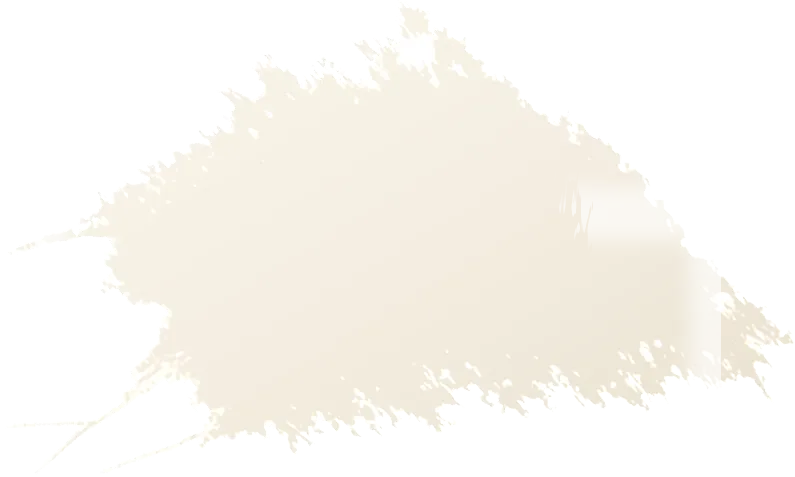
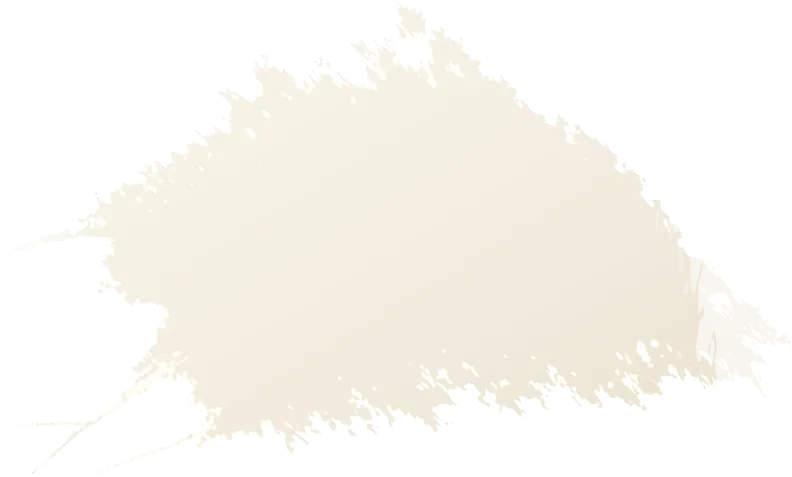
x=640'taki hayalet ek yeri kapandı, telefonda kenar bıçakla kesilmiyor
İki kusur aynı kökten: boya, üretildiği tuvalin dışına taşıyor.

1) Maskeler tuval boyutundaydı, darbeler değil. boya_darbe içindeki
   `if 0 <= gx < TUVAL_EN` koşulu, tuval dışına düşen her pikselde nefes
   ve koruma maskesi sorgusunu sessizce atlıyordu. Sonuç: x<640'ta
   delikler açık (duvar sızıyor, dokulu), x>640'ta hiç delik yok (tam
   opak, dokusuz), arada bıçak gibi bir çizgi. Sayı tesadüfi değildi:
   TUVAL_EN(686) - PAY_SOL(46) = 640. Koyu panelde iki taraf da koyu
   olduğu için fark küçüktü; panel kremlenince uçurum oldu.

   Maskeler artık darbelerin GERÇEK sınırlarını kapsıyor (874x1142,
   tuval 686x957). Sınırlar elle yazılmıyor: bütün darbeler önce
   üretiliyor, sınırları ölçülüyor, maskeler ona göre kuruluyor.
   Ölçüldü: x=639'daki atlama 90.84'ten 15.17'ye düştü, yani cetvel
   kenarı gitti, kalan boyanın kendi değişimi. İç delik %0.03 -> %0.01.

   Kelepçeleme (gx = min(gx, TUVAL_EN-1)) denenmedi çünkü yanlış:
   kenarda tekrar eden bir şerit bırakır, artefaktı artefakta çevirir.

2) Telefonda kırpma dar tutulmuştu, çünkü orada kâğıt hiç çekilmiyor ve
   taşan boyanın altında duvar değil doğrudan içerik var. Bedeli ağırdı:
   gerçek cihazda kartın sağ ve alt kenarı cetvel gibi düz çıkıyordu ve
   o düz kenar çerçeve gibi okunuyordu -- "darbeler panelin kendisi,
   tırtıklı kenar kalıcı" kararının tam tersi. Ölçüldü: sağda x=362'de
   111 basamaklık dikey kesik, altta y=750'de 50 basamaklık yatay kesik.
[…]

Changed region(s): [[0.8788, 0.6164, 0.9697, 0.7925], [0.9697, 0.7044, 1.0, 0.7338]]

diff --git a/kabuk.css b/kabuk.css
@@ -432,7 +432,15 @@ html.durdur { scrollbar-gutter: stable; }
     inset: auto;
     top: var(--ust);
     left: clamp(14px, 4vw, 22px);
-    width: min(306px, calc(100vw - 2 * clamp(14px, 4vw, 22px)));
+    /* Genislik OLCULEN tasmaya bagli. Telefonda kagit hic cekilmiyor,
+       yani boyanin tasmasi dogrudan ekrana gidiyor; kart + tasma
+       ekrana sigmali ki tirtikli kenar KESILMESIN:
+           kart * (1 + tasma) <= ekran - iki yan pay
+       306 px'te tasma 396'ya gidiyordu (ekran 390) ve kenar bicakla
+       kesiliyordu. Formul 390'da 262, 320'de 226 veriyor -- her iki
+       ekranda da tirtikli kenar iceride bitiyor. */
+    width: min(262px, calc((100vw - 2 * clamp(14px, 4vw, 22px))
+                           / (1 + var(--tasma-oran, .3))));
     height: auto;
     max-height: calc(100dvh - var(--ust) - 20px);
     grid-template-columns: 1fr; grid-template-rows: 1fr;
@@ -684,13 +692,19 @@ html:not(.menuacik) #shell {
 @media (max-width: 760px) {
   html.menuacik #shell { --don: 0deg; --kac: 0px; --kucul: 1; }
   #menu { height: auto; }
-  /* Kirpma telefonda DAR kalir. Masaustunde gevsetildi cunku olculen
-     tasma %29 ve kagit o kadar kenara cekiliyor; telefonda kagit hic
-     cekilmiyor (yukaridaki --kac: 0), yani tasan boyanin altinda duvar
-     degil dogrudan icerik var. Olculdu: gevsek kirpmayla kart 390 px'te
-     x=420'ye kadar tasiyor ve icerigi cirkin sekilde kapatiyordu.
-     Burada boya kartin kendisi olarak kaliyor. */
-  #boya { clip-path: inset(-30px -22px -34px -20px); }
+  /* Kirpma KALKTI. Once dar tutulmustu (tasan boyanin altinda duvar
+     degil dogrudan icerik var diye) ama bedeli agirdi: gercek cihazda
+     kartin sag ve alt kenari cetvel gibi duz cikiyordu ve o duz kenar
+     cerceve gibi okunuyordu -- yani "darbeler panelin kendisi, tirtikli
+     kenar kalici" kararinin tam tersi. Olculdu: sagda x=362'de 111
+     basamaklik dikey kesik, altta y=750'de 50 basamaklik yatay kesik.
+     Cozum kirpmak degil, tasmaya YER ACMAK: kart 306'dan 262 px'e
+     indi, tasma artik ekranin icinde bitiyor. Perde de koyulasti ki
+     tasan boyanin altindaki icerik kirli durmasin. */
+  #boya { clip-path: none; }
+  #menu:popover-open::backdrop, #menu.open ~ #perde {
+    background: rgba(22,18,13,.52);
+  }
 }
 
 /* Buradaki ikinci satir blogu kaldirildi. .open yolu icin yazilmisti ama

diff --git a/firca.css b/firca.css
@@ -1,9 +1,9 @@
 /* URETILDI - python firca.py. Elle duzenleme: yerlesim olculerek
    bulunuyor, elle degistirilirse yazi altindaki opaklik garantisi
    bozulur. Kaynak: firca.py YERLESIM. */
-#boya {
+:root {
   --darbe: 9;        /* kabuk.js kac <i> uretecegini buradan okuyor */
-  --tasma-oran: 0.2933; /* olculdu: gorunur boya kutunun %29.3'i kadar tasiyor */
+  --tasma-oran: 0.2917; /* olculdu: gorunur boya kutunun %29.2'i kadar tasiyor */
 }
 :root { --satir-doygunluk: 0.40; --satir-parlaklik: 0.20; --satir-adim: 0.015; }
 :root {
@@ -29,7 +29,7 @@
 }
 #boya i { animation-duration: 300ms; animation-timing-function: cubic-bezier(.38,.12,.56,.94); }
 #boya i:nth-child(1) {
-  left: -12.67%; top: -5.13%; width: 132.50%; height: 39.91%;
+  left: -12.50%; top: -5.13%; width: 132.33%; height: 39.91%;
   background-image: url(assets/firca/panel-1.webp);
 }
 #menu:popover-open #boya i:nth-child(1) {
@@ -59,7 +59,7 @@
   animation-name: sup-sag; animation-delay: 84ms;
 }
 #boya i:nth-child(4) {
-  left: -13.50%; top: 27.54%; width: 132.50%; height: 55.66%;
+  left: -13.00%; top: 27.54%; width: 132.00%; height: 55.66%;
   background-image: url(assets/firca/panel-4.webp);
 }
 #menu:popover-open #boya i:nth-child(4) {
@@ -69,7 +69,7 @@
   animation-name: sup-sag; animation-delay: 120ms;
 }
 #boya i:nth-child(5) {
-  left: -11.00%; top: 44.11%; width: 140.67%; height: 78.41%;
+  left: -10.50%; top: 44.11%; width: 140.17%; height: 78.41%;
   background-image: url(assets/firca/panel-5.webp);
 }
 #menu:popover-open #boya i:nth-child(5) {
@@ -79,7 +79,7 @@
   animation-name: sup-sol; animation-delay: 152ms;
 }
 #boya i:nth-child(6) {
-  left: -12.00%; top: 70.36%; width: 138.17%; height: 24.74%;
+  left: -12.00%; top: 70.36%; width: 138.17%; height: 24.62%;
   background-image: url(assets/firca/panel-6.webp);
 }
 #menu:popover-open #boya i:nth-child(6) {

diff --git a/firca.py b/firca.py
@@ -434,7 +434,7 @@ def fr(t):
     return FR[-1][1]
 
 
-def nefes_dokusu(darbeler):
+def nefes_dokusu(darbeler, en=None, boy=None):
     """Butun darbelerin PAYLASTIGI delik dokusu.
 
     Her darbeye ayri delik acmak ise yaramiyor: delikler hizalanmadigi
@@ -446,8 +446,13 @@ def nefes_dokusu(darbeler):
     Doku kuru firca fotografinin kendi yogunlugundan: deliklerin
     dagilimi da gercek bir darbeden geliyor.
     """
+    en = TUVAL_EN if en is None else en
+    boy = TUVAL_BOY if boy is None else boy
     ham = darbeler['karakter-1']
-    d = ham.resize((TUVAL_EN, TUVAL_BOY), Image.LANCZOS)
+    # Olculer disaridan geliyor: doku darbelerin TAMAMINI kapsamali,
+    # yoksa tuval sinirinda delikler aniden kesiliyor ve cetvel gibi
+    # bir kenar olusuyor (olculdu: x=639'da 90 basamak).
+    d = ham.resize((en, boy), Image.LANCZOS)
     # Cogu yer acik (delik yok), az yer koyu (delik). Egri bunu kuruyor:
     # 190 ustu tam opak, 120 altı tam delik.
     # Egri DARALTILDI: ilk denemede panel yuzey olmaktan cikip lekeye
@@ -458,17 +463,23 @@ def nefes_dokusu(darbeler):
                    (96 if v <= 84 else int(96 + (v - 84) * 159.0 / 66)))
 
 
-def guvenli_bolge():
+def guvenli_bolge(en=None, boy=None, kay_x=0, kay_y=0):
     """Yazinin UZAGINDAKI bolge. Burada boya nefes alabilir.
 
     Yazi kutulari olculmus koordinatlar oldugu icin bu maske tahmin
     degil: kutular GUVENLI_PAY kadar buyutulup cikariliyor.
     """
-    m = Image.new('L', (TUVAL_EN, TUVAL_BOY), 255)
+    # Kanvas darbelerin tamamini kapsayacak kadar buyuk olabilir; yazi
+    # kutulari o zaman kaydirilarak ciziliyor. Kutularin DISINDA kalan
+    # genis alan 255, yani "guvenli" -- dogru, cunku orada yazi yok.
+    en = TUVAL_EN if en is None else en
+    boy = TUVAL_BOY if boy is None else boy
+    m = Image.new('L', (en, boy), 255)
     d = ImageDraw.Draw(m)
     for ad, x, y, w, h in YAZI_KUTULARI:
-        d.rectangle([x - GUVENLI_PAY, y - GUVENLI_PAY,
-                     x + w + GUVENLI_PAY, y + h + GUVENLI_PAY], fill=0)
+        d.rectangle([x + kay_x - GUVENLI_PAY, y + kay_y - GUVENLI_PAY,
+                     x + kay_x + w + GUVENLI_PAY,
+                     y + kay_y + h + GUVENLI_PAY], fill=0)
     # Kenarlari yumusat: sert bir sinir "buraya kadar delik, buradan sonra
     # yok" diye okunur ve yine cetvel etkisi yapar.
     return m.filter(ImageFilter.GaussianBlur(9))
@@ -487,7 +498,8 @@ def donustur(ham, wy, donme, ayna):
     return ham, siluet
 
 
-def boya_darbe(ham, siluet, ox, oy, guvenli=None, nefes=None):
+def boya_darbe(ham, siluet, ox, oy, guvenli=None, nefes=None,
+               kay_x=0, kay_y=0):
     """Doku RENKTE, alfa siluet. Ince boya acilir ama solmaz -- doygunlugu
     korumazsak panel plastik ortu gibi duruyor (denendi)."""
     w, h = siluet.size
@@ -502,8 +514,14 @@ def boya_darbe(ham, siluet, ox, oy, guvenli=None, nefes=None):
             if not a:
                 continue
             if gp is not None:
-                gx, gy = ox + x, oy + y
-                if 0 <= gx < TUVAL_EN and 0 <= gy < TUVAL_BOY:
+                # Maske koordinati: maskeler darbelerin tamamini kapsayan
+                # GENISLETILMIS kanvasta, o yuzden ofset ekleniyor.
+                # Sinir denetimi duruyor ama artik hicbir darbe disarida
+                # kalmiyor -- eskiden kalanlar maskesiz, yani tam opak ve
+                # dokusuz cikiyordu ve tam tuval sinirinda (x=640) cetvel
+                # gibi bir kenar birakiyordu.
+                gx, gy = ox + x + kay_x, oy + y + kay_y
+                if 0 <= gx < guvenli.size[0] and 0 <= gy < guvenli.size[1]:
                     g = gp[gx, gy]
                     if g and np_ is not None:
                         # Yazidan uzakta ORTAK dokunun deligi aciliyor.
@@ -526,15 +544,32 @@ def boya_darbe(ham, siluet, ox, oy, guvenli=None, nefes=None):
 
 
 def kur(darbeler):
-    panel = Image.new('RGBA', (TUVAL_EN, TUVAL_BOY), (0, 0, 0, 0))
-    guvenli = guvenli_bolge()
-    nefes = nefes_dokusu(darbeler)
-    parcalar = []
+    # Once butun darbeler uretiliyor ve GERCEK sinirlari olculuyor.
+    # Maskeler sonra, o sinirlari kapsayacak sekilde kuruluyor: eskiden
+    # maskeler tuval boyutundaydi ve tuvalin disina tasan her piksel
+    # maskesiz kaliyordu (bkz. boya_darbe).
+    hazir = []
     for ad, xy, yy, wy, donme, ayna in YERLESIM:
         ham, siluet = donustur(darbeler[ad], wy, donme, ayna)
         ox = int(EN * xy / 100.0) + PAY_SOL
         oy = int(BOY * yy / 100.0) + PAY_UST
-        d = boya_darbe(ham, siluet, ox, oy, guvenli, nefes)
+        hazir.append((ham, siluet, ox, oy))
+
+    kay_x = max(0, -min(o for _, _, o, _ in hazir))
+    kay_y = max(0, -min(o for _, _, _, o in hazir))
+    tasan_sag = max(0, max(o + sl.size[0] for _, sl, o, _ in hazir) - TUVAL_EN)
+    tasan_alt = max(0, max(o + sl.size[1] for _, sl, _, o in hazir) - TUVAL_BOY)
+    m_en = TUVAL_EN + kay_x + tasan_sag
+    m_boy = TUVAL_BOY + kay_y + tasan_alt
+    print('maske kanvasi %dx%d  (tuval %dx%d, tasma sol %d sag %d ust %d alt %d)'
+          % (m_en, m_boy, TUVAL_EN, TUVAL_BOY, kay_x, tasan_sag, kay_y, tasan_alt))
+
+    panel = Image.new('RGBA', (TUVAL_EN, TUVAL_BOY), (0, 0, 0, 0))
+    guvenli = guvenli_bolge(m_en, m_boy, kay_x, kay_y)
+    nefes = nefes_dokusu(darbeler, m_en, m_boy)
+    parcalar = []
+    for ham, siluet, ox, oy in hazir:
+        d = boya_darbe(ham, siluet, ox, oy, guvenli, nefes, kay_x, kay_y)
         gec = Image.new('RGBA', (TUVAL_EN, TUVAL_BOY), (0, 0, 0, 0))
         gec.paste(d, (ox, oy))
         panel = Image.alpha_composite(panel, gec)
@@ -791,7 +826,10 @@ def css_yaz(satirlar, taban=None):
     # tasma kutu eninin ~%30'u, yani kirpma boyayi duz bir dikey cizgi
     # halinde kesiyordu.
     tasma = max(0.0, max(r['sag_gor'] for r in satirlar) - 100.0) / 100.0
-    p.append('#boya {')
+    # :root'a yaziliyor, #boya'ya degil: telefonda #menu'nun GENISLIGI de
+    # bu orana bagli (kart + tasma ekrana sigmali) ve #menu, #boya'nin
+    # atasi oldugu icin oradan miras alamazdi.
+    p.append(':root {')
     p.append('  --darbe: %d;        /* kabuk.js kac <i> uretecegini buradan okuyor */'
              % len(satirlar))
     p.append('  --tasma-oran: %.4f; /* olculdu: gorunur boya kutunun %%%.1f\'i kadar tasiyor */'
